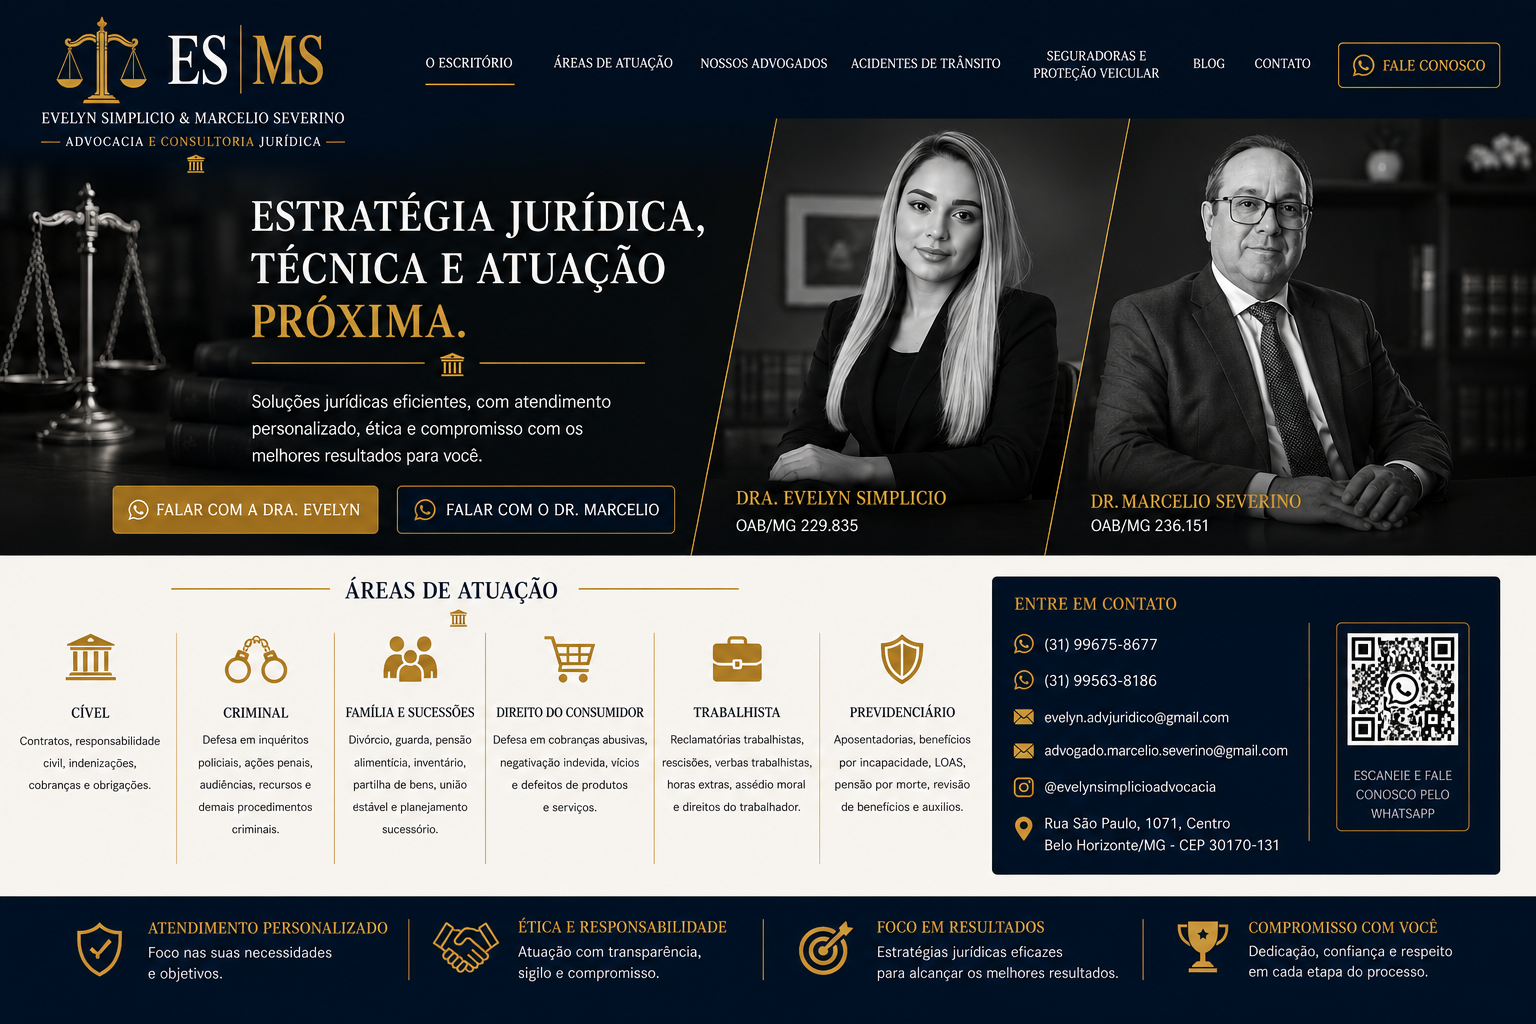
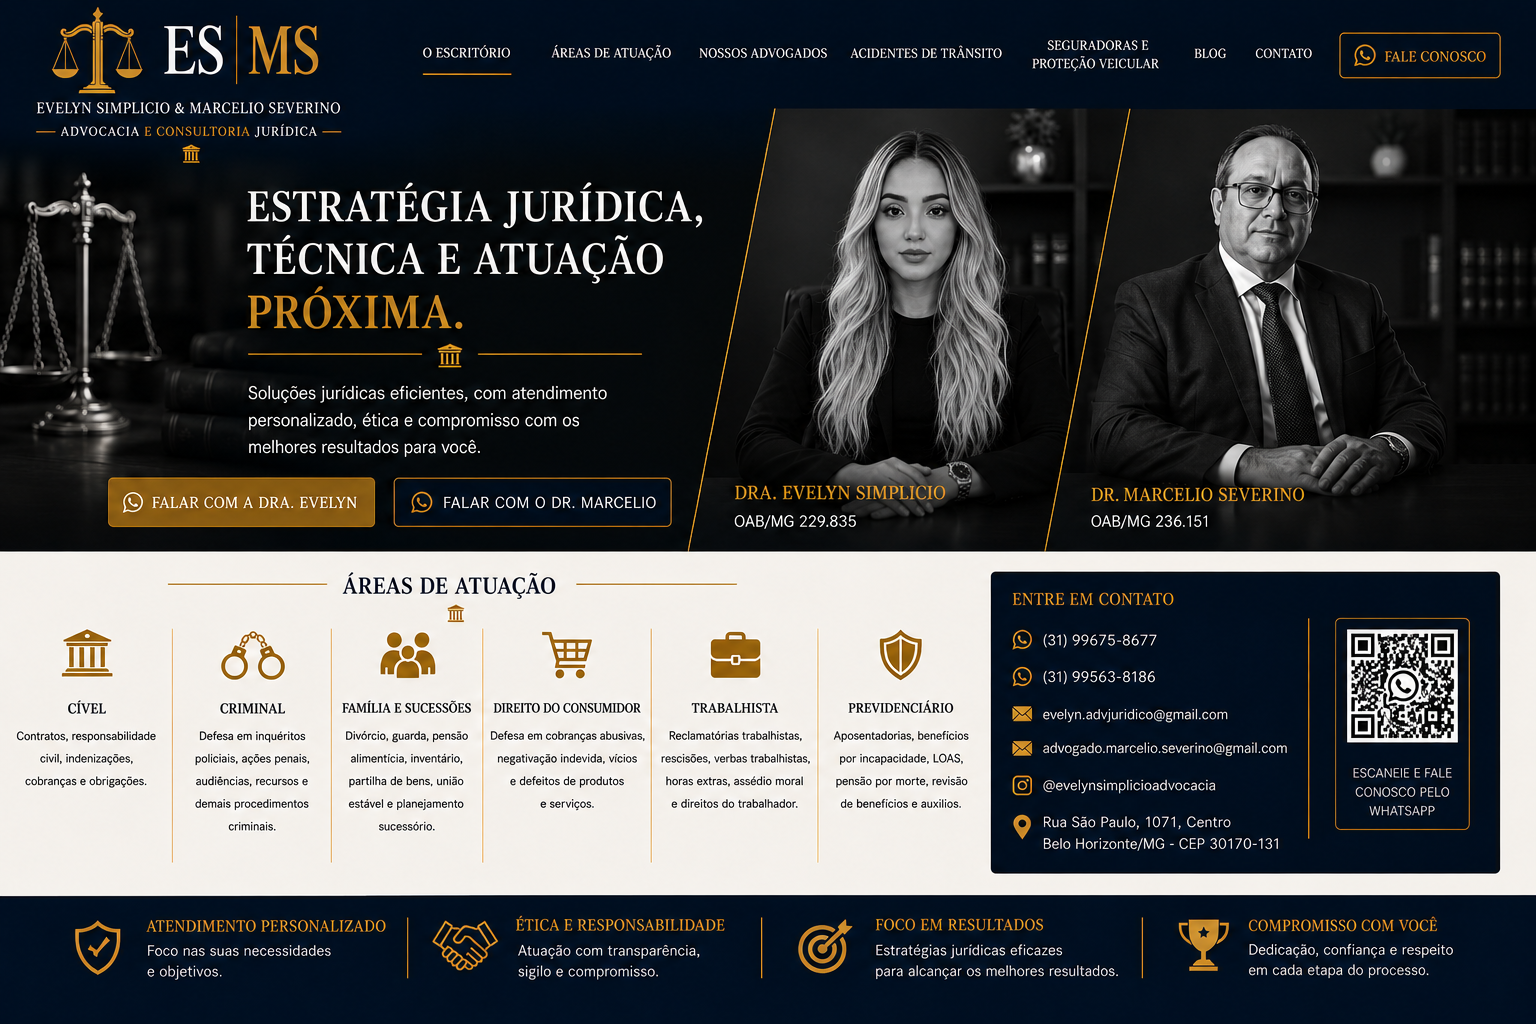
Add files via upload

diff --git a/index.html b/index.html
@@ -67,15 +67,9 @@ img{max-width:100%;display:block}
 .btn-outline{border:1px solid rgba(255,255,255,.42);color:#fff}
 .icon{width:19px;height:19px;display:inline-block;vertical-align:middle}
 
-.hero{
-  position:relative;overflow:hidden;
-  background:
-  linear-gradient(90deg,rgba(4,18,36,.94) 0%,rgba(7,26,51,.80) 42%,rgba(7,26,51,.26) 72%,rgba(7,26,51,.10) 100%),
-  url('assets/mockup_aprovado.png') center top/cover no-repeat;
-  color:white;min-height:690px;display:flex;align-items:center;
-}
+.hero{position:relative;background:#02070d url('assets/mockup_aprovado.png') center top/cover no-repeat;color:white;min-height:690px;display:flex;align-items:center}
 .hero:after{display:none}
-.hero-content{position:relative;z-index:2;max-width:735px;padding:86px 0 130px}
+.hero-content{display:none}
 .eyebrow{
   display:flex;align-items:center;gap:11px;color:var(--gold-light);
   font-size:12px;font-weight:800;letter-spacing:.17em;text-transform:uppercase;
@@ -275,6 +269,88 @@ header,
 }
 
 </style>
+
+<style>
+/* AJUSTE EXCLUSIVO: fotos dos advogados menores */
+.lawyer-card{
+  grid-template-columns: 180px minmax(0,1fr) !important;
+  align-items: stretch !important;
+}
+.lawyer-photo{
+  min-height: 285px !important;
+  height: 285px !important;
+  background-size: cover !important;
+  background-position: center top !important;
+}
+@media (max-width: 900px){
+  .lawyer-card{
+    grid-template-columns: 150px minmax(0,1fr) !important;
+  }
+  .lawyer-photo{
+    min-height: 240px !important;
+    height: 240px !important;
+  }
+}
+</style>
+
+
+<style>
+/* AJUSTE EXCLUSIVO DAS FOTOS DOS ADVOGADOS */
+.lawyer-card{
+  grid-template-columns: 165px minmax(0,1fr) !important;
+  align-items: start !important;
+}
+.lawyer-photo{
+  width: 165px !important;
+  height: 245px !important;
+  min-height: 245px !important;
+  background-size: contain !important;
+  background-repeat: no-repeat !important;
+  background-position: center top !important;
+  background-color: #111 !important;
+}
+@media (max-width: 900px){
+  .lawyer-card{
+    grid-template-columns: 140px minmax(0,1fr) !important;
+  }
+  .lawyer-photo{
+    width: 140px !important;
+    height: 210px !important;
+    min-height: 210px !important;
+  }
+}
+</style>
+
+
+<style>
+/* AJUSTE SOMENTE DAS FOTOS NA SEÇÃO ADVOGADOS */
+.person{
+  grid-template-columns: 190px minmax(0,1fr) !important;
+  min-height: 0 !important;
+  align-items: start !important;
+}
+.person img{
+  width: 150px !important;
+  height: 225px !important;
+  margin: 20px auto !important;
+  object-fit: contain !important;
+  object-position: center center !important;
+  background: #f7f3ea !important;
+  filter: grayscale(100%) contrast(1.08) brightness(.98) !important;
+  display: block !important;
+}
+@media(max-width:760px){
+  .person{
+    grid-template-columns: 145px minmax(0,1fr) !important;
+  }
+  .person img{
+    width: 120px !important;
+    height: 180px !important;
+    margin: 18px auto !important;
+  }
+}
+</style>
+
 </head>
 <body>
 
@@ -292,7 +368,7 @@ header,
       <a href="#atuacao">Áreas de Atuação</a>
       <a href="#advogados">Advogados</a>
       <a href="#contato">Contato</a>
-      <a class="btn btn-gold" href="https://wa.me/5531996758677" target="_blank" rel="noopener">
+      <a class="btn btn-gold" href="https://wa.me/5531990167835" target="_blank" rel="noopener">
         <svg class="icon" viewBox="0 0 24 24" fill="currentColor" aria-hidden="true"><path d="M12.04 2C6.52 2 2.04 6.48 2.04 12c0 1.76.46 3.48 1.33 4.99L2 22l5.13-1.34A9.96 9.96 0 0 0 12.04 22C17.56 22 22 17.52 22 12S17.56 2 12.04 2Zm5.82 14.32c-.24.67-1.39 1.28-1.93 1.36-.5.08-1.13.11-1.82-.11-.42-.13-.96-.31-1.65-.61-2.9-1.25-4.79-4.17-4.94-4.36-.14-.19-1.18-1.57-1.18-2.99s.74-2.12 1.01-2.41c.26-.29.57-.36.76-.36h.55c.18 0 .42-.07.66.5.24.58.82 2 .89 2.14.07.14.12.31.02.5-.1.19-.14.31-.29.48-.14.17-.3.37-.43.5-.14.14-.29.3-.12.58.17.29.76 1.25 1.64 2.03 1.12 1 2.07 1.31 2.36 1.46.29.14.46.12.62-.07.17-.19.72-.84.91-1.13.19-.29.38-.24.65-.14.26.1 1.67.79 1.96.93.29.14.48.22.55.34.07.12.07.7-.17 1.37Z"/></svg>
         WhatsApp
       </a>
@@ -308,11 +384,11 @@ header,
         <h1>Estratégia jurídica com presença, técnica e compromisso.</h1>
         <p>Atuação jurídica personalizada, com análise cuidadosa dos fatos, comunicação clara e condução firme das medidas necessárias à defesa dos interesses de cada cliente.</p>
         <div class="hero-actions">
-          <a class="btn btn-gold" href="https://wa.me/5531996758677" target="_blank" rel="noopener">
+          <a class="btn btn-gold" href="https://wa.me/5531990167835" target="_blank" rel="noopener">
             <svg class="icon" viewBox="0 0 24 24" fill="currentColor"><path d="M12.04 2C6.52 2 2.04 6.48 2.04 12c0 1.76.46 3.48 1.33 4.99L2 22l5.13-1.34A9.96 9.96 0 0 0 12.04 22C17.56 22 22 17.52 22 12S17.56 2 12.04 2Zm5.82 14.32c-.24.67-1.39 1.28-1.93 1.36-.5.08-1.13.11-1.82-.11-.42-.13-.96-.31-1.65-.61-2.9-1.25-4.79-4.17-4.94-4.36-.14-.19-1.18-1.57-1.18-2.99s.74-2.12 1.01-2.41c.26-.29.57-.36.76-.36h.55c.18 0 .42-.07.66.5.24.58.82 2 .89 2.14.07.14.12.31.02.5-.1.19-.14.31-.29.48-.14.17-.3.37-.43.5-.14.14-.29.3-.12.58.17.29.76 1.25 1.64 2.03 1.12 1 2.07 1.31 2.36 1.46.29.14.46.12.62-.07.17-.19.72-.84.91-1.13.19-.29.38-.24.65-.14.26.1 1.67.79 1.96.93.29.14.48.22.55.34.07.12.07.7-.17 1.37Z"/></svg>
             Falar com a Dra. Evelyn
           </a>
-          <a class="btn btn-outline" href="https://wa.me/5531995638186" target="_blank" rel="noopener">Falar com o Dr. Marcelio</a>
+          <a class="btn btn-outline" href="https://wa.me/5531990167835" target="_blank" rel="noopener">Falar com o Dr. Marcelio</a>
         </div>
         <div class="signature"><div class="signature-line"></div><span>Soluções jurídicas eficientes, atendimento humano e estratégico.</span></div>
         <div class="hero-note">Conteúdo informativo. O atendimento depende da análise individualizada do caso.</div>
@@ -379,8 +455,7 @@ header,
           <div class="person-info">
             <div class="role">Advogada</div>
             <h3>Dra. Evelyn Simplicio</h3>
-            <div class="oab">OAB/MG 229.835</div>
-            <p>Atuação estratégica em demandas judiciais e extrajudiciais, com atenção à prova, à construção da tese e à comunicação direta com o cliente.</p>
+            <p>Atuação estratégica com destaque em <strong>acidentes de trânsito e responsabilidade civil</strong>, especialmente na defesa de caminhoneiros, transportadores e profissionais que dependem da estrada, com atuação em indenizações, reparação de danos, lucros cessantes e conflitos envolvendo seguradoras e associações de proteção veicular. Também atua em <strong>Direitos Reais</strong>, com ênfase em usucapião e regularização de imóveis, além de demandas de <strong>Direito de Família e Sucessões</strong> e <strong>Direito do Consumidor</strong>, conduzindo cada caso com análise técnica, organização probatória, estratégia processual e acompanhamento próximo do cliente.</p>
           </div>
         </article>
 
@@ -389,8 +464,7 @@ header,
           <div class="person-info">
             <div class="role">Advogado</div>
             <h3>Dr. Marcelio Severino</h3>
-            <div class="oab">OAB/MG 236.151</div>
-            <p>Atuação consultiva e contenciosa, com análise técnica, responsabilidade profissional e foco na proteção jurídica dos interesses do cliente.</p>
+            <p>Atuação concentrada em <strong>Direito Criminal e Execução Penal</strong>, com defesa técnica desde investigações, inquéritos e medidas urgentes até ações penais, audiências e recursos. Na execução criminal, atua em <strong>progressão de regime, livramento condicional, remição, benefícios, revisão de pena e incidentes de execução</strong>, com atenção minuciosa aos autos, à estratégia processual e à proteção das garantias fundamentais do cliente.</p>
           </div>
         </article>
       </div>
@@ -407,7 +481,7 @@ header,
         <div class="contact-list">
           <div class="contact-item">
             <svg viewBox="0 0 24 24" fill="currentColor"><path d="M12.04 2C6.52 2 2.04 6.48 2.04 12c0 1.76.46 3.48 1.33 4.99L2 22l5.13-1.34A9.96 9.96 0 0 0 12.04 22C17.56 22 22 17.52 22 12S17.56 2 12.04 2Z"/></svg>
-            <div><strong>WhatsApp</strong><span>Dra. Evelyn: (31) 99675-8677 • Dr. Marcelio: (31) 99563-8186</span></div>
+            <div><strong>WhatsApp Empresarial</strong><span>(31) 99016-7835<br>• Dra. Evelyn: (31) 99675-8677 • Dr. Marcelio: (31) 99563-8186</span></div>
           </div>
           <div class="contact-item">
             <svg viewBox="0 0 24 24" fill="none" stroke="currentColor" stroke-width="1.8"><rect x="3" y="3" width="18" height="18" rx="5"/><circle cx="12" cy="12" r="4"/><circle cx="17.5" cy="6.5" r="1"/></svg>
@@ -427,7 +501,7 @@ header,
       <div class="contact-card">
         <h3>Atendimento jurídico</h3>
         <p>Envie uma mensagem pelo WhatsApp. Caso já tenha documentos relacionados ao problema, deixe-os separados para facilitar a análise inicial.</p>
-        <a class="btn btn-gold" href="https://wa.me/5531996758677" target="_blank" rel="noopener">
+        <a class="btn btn-gold" href="https://wa.me/5531990167835" target="_blank" rel="noopener">
           <svg class="icon" viewBox="0 0 24 24" fill="currentColor"><path d="M12.04 2C6.52 2 2.04 6.48 2.04 12c0 1.76.46 3.48 1.33 4.99L2 22l5.13-1.34A9.96 9.96 0 0 0 12.04 22C17.56 22 22 17.52 22 12S17.56 2 12.04 2Z"/></svg>
           Conversar pelo WhatsApp
         </a>
